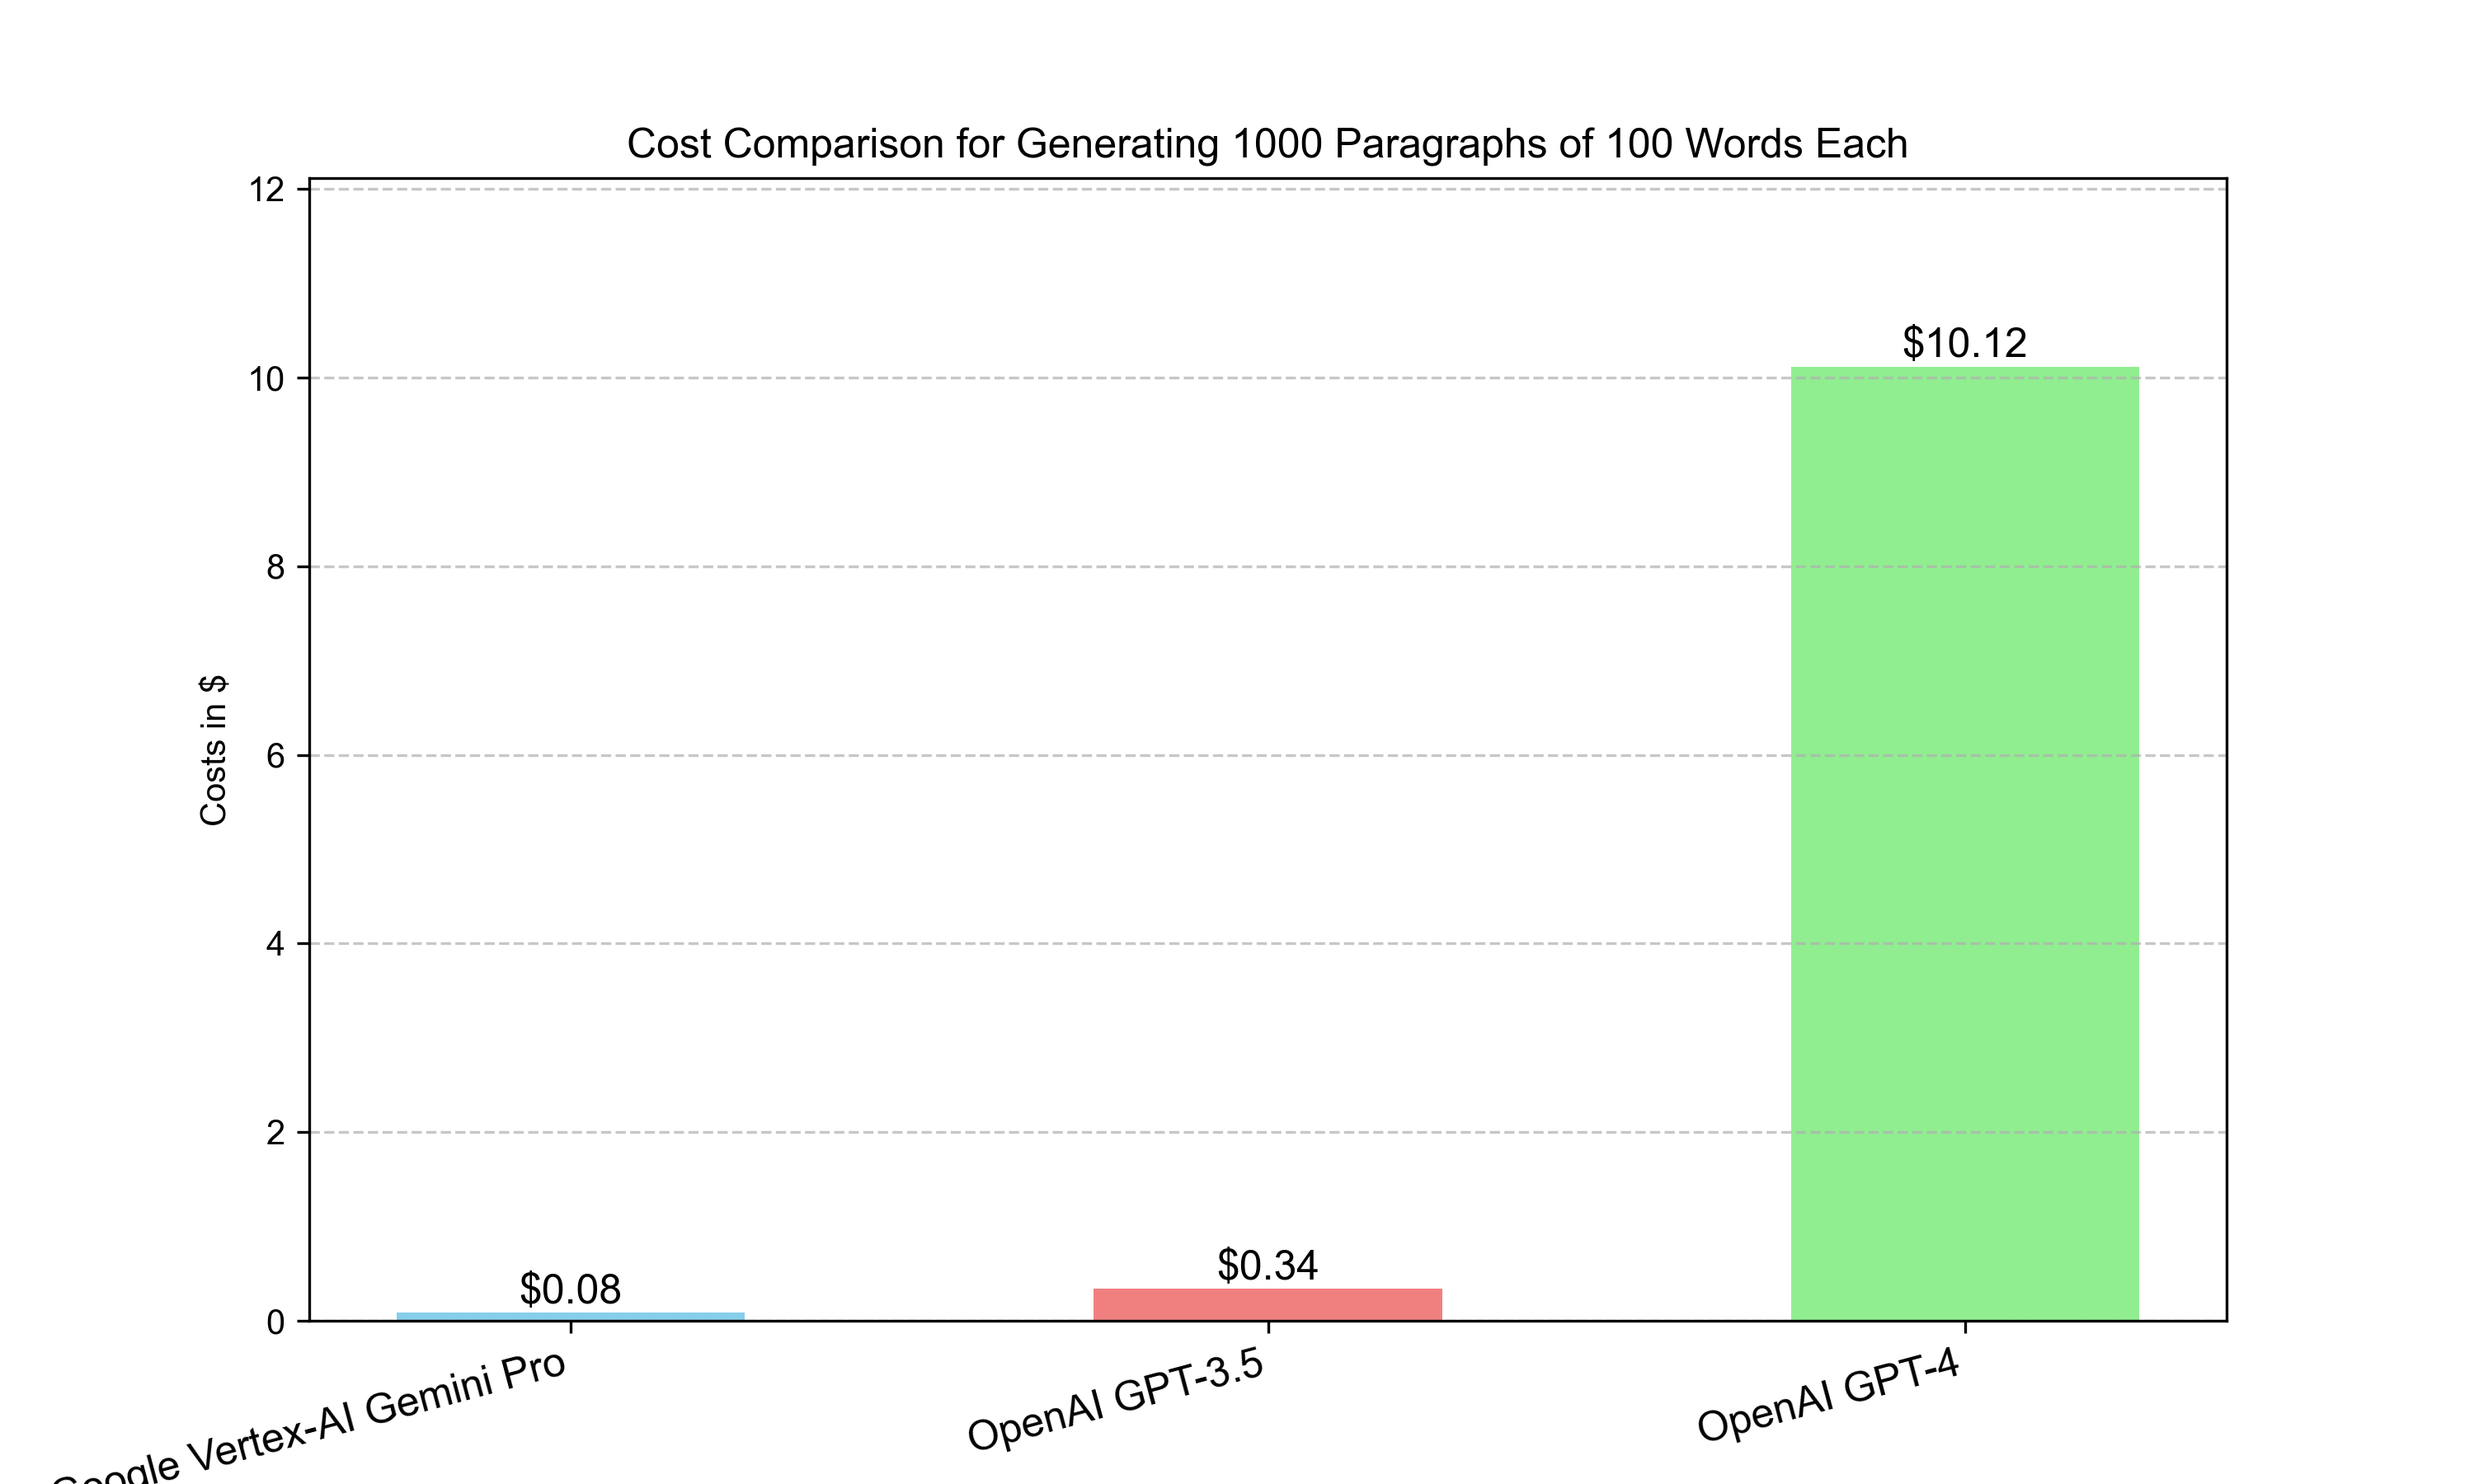
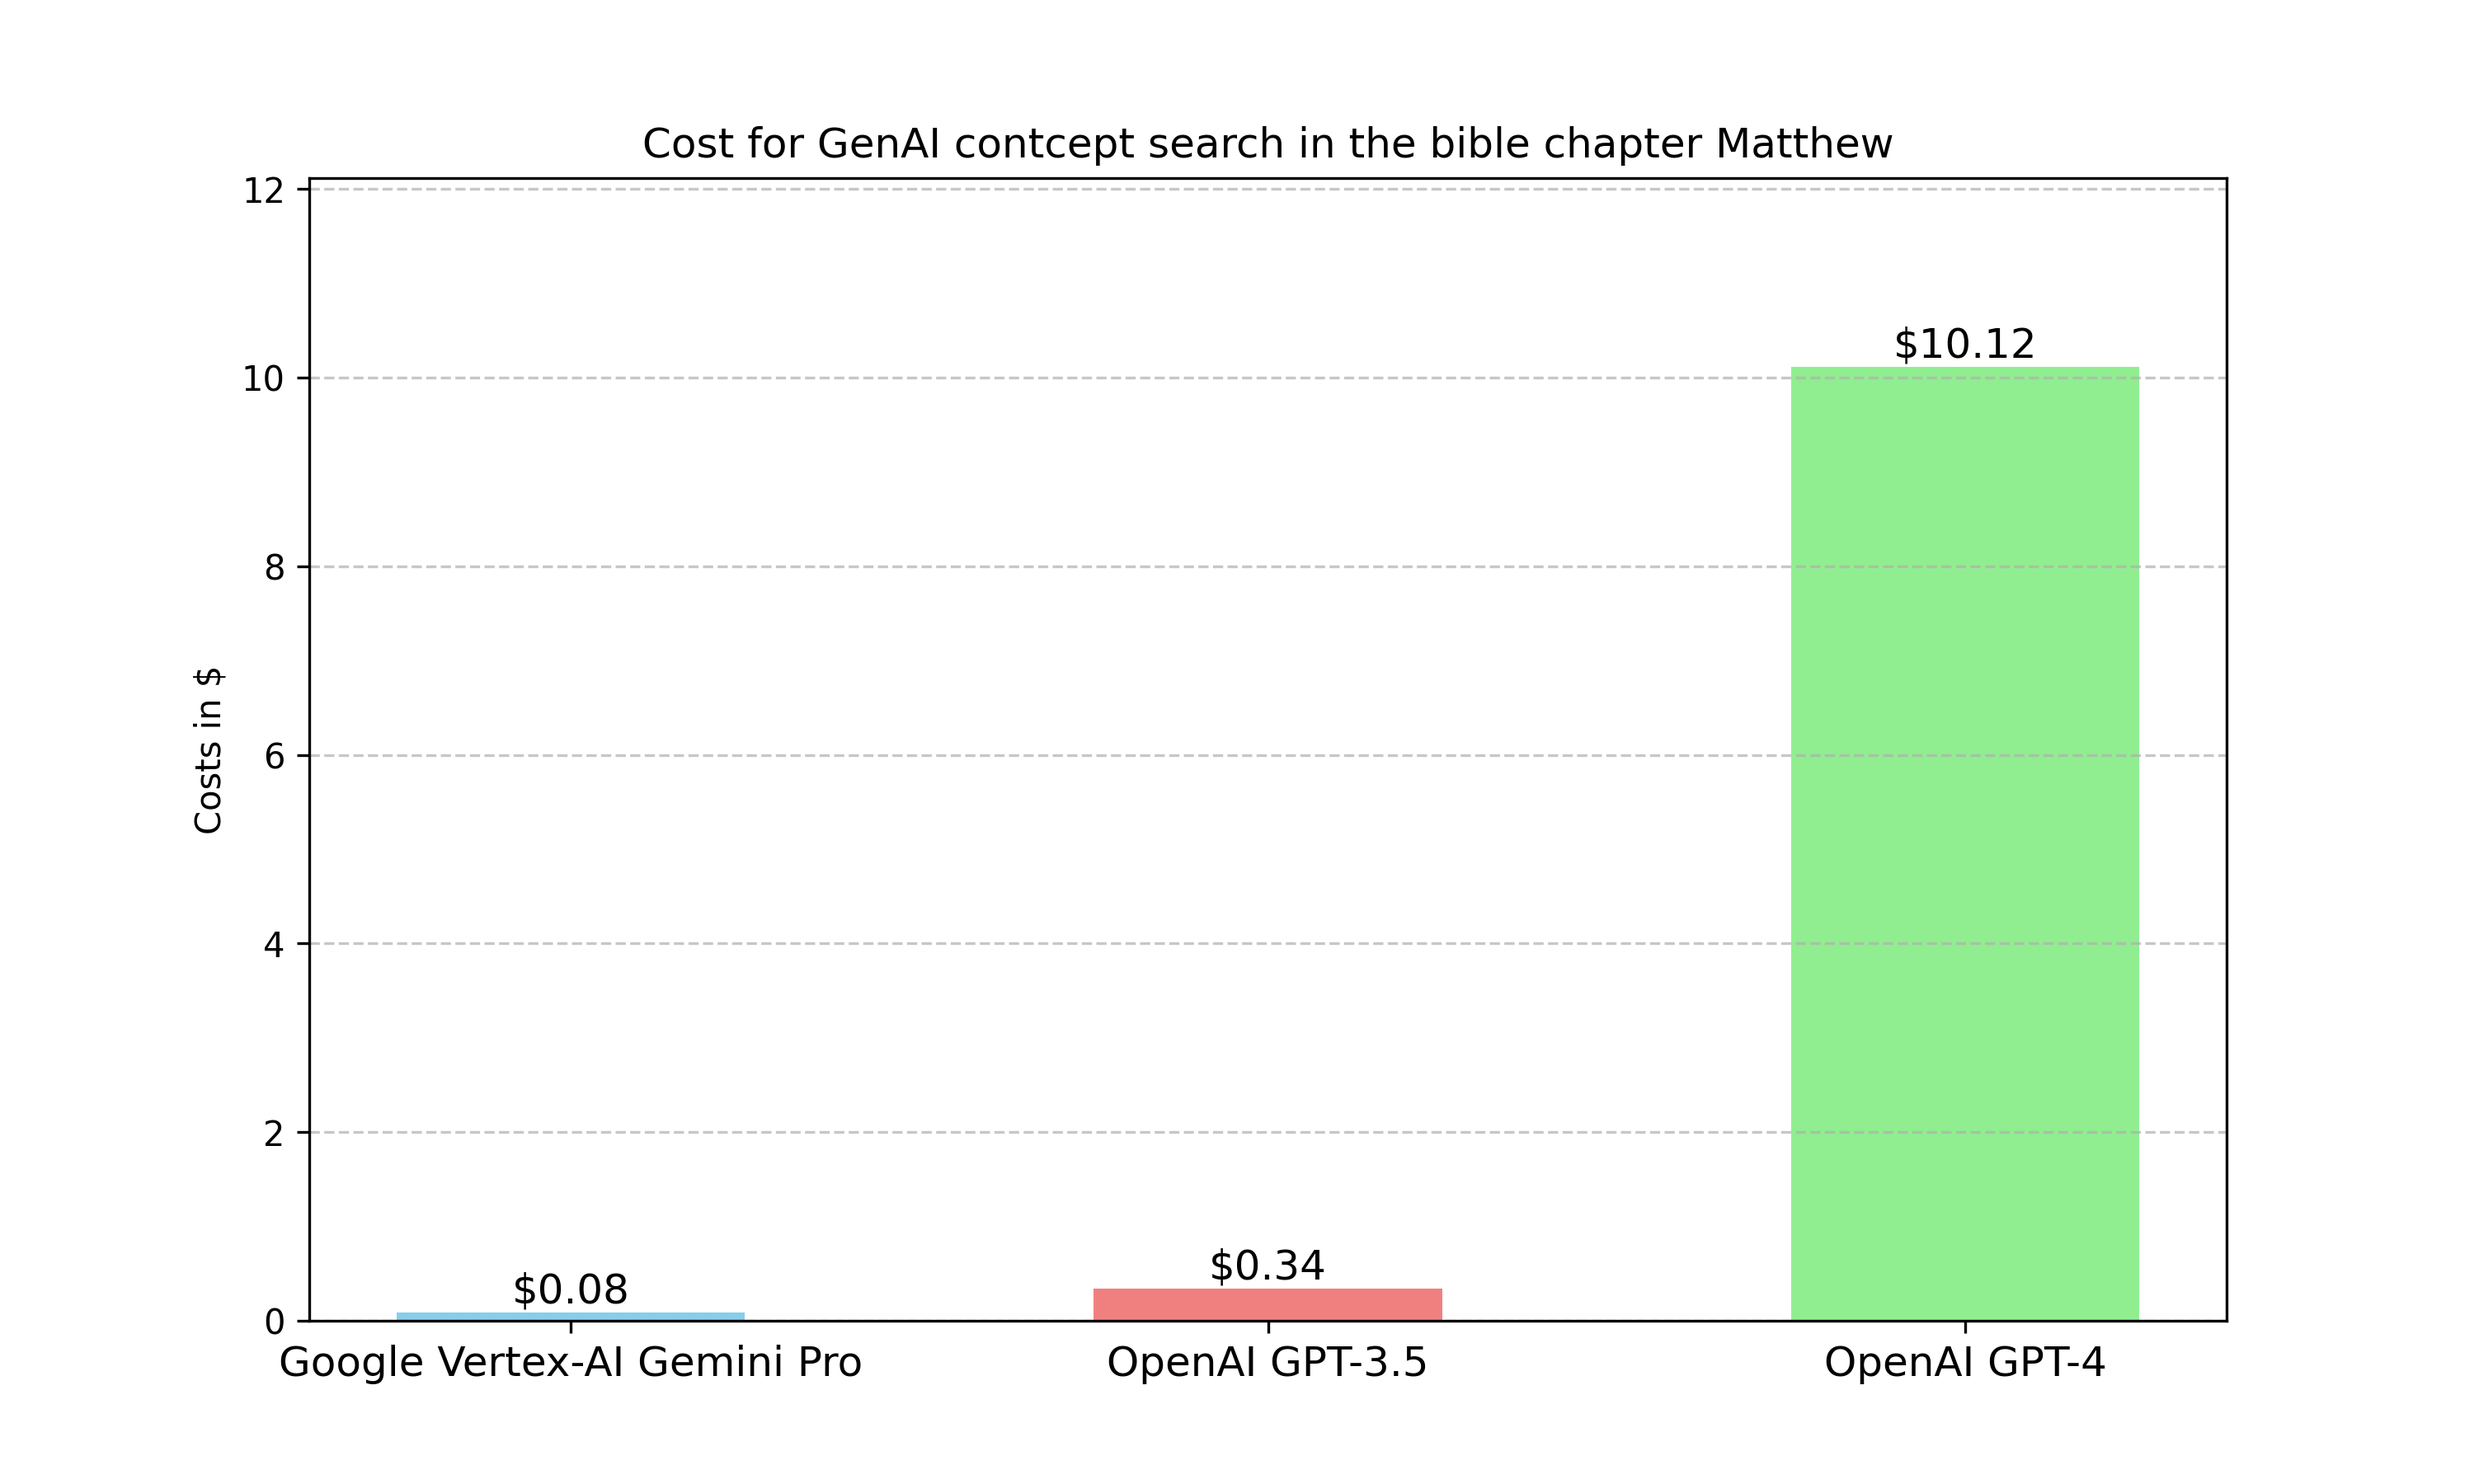
Improve Documentation

diff --git a/README.md b/README.md
@@ -1,0 +1,74 @@
+# Concept search powered by Large Language Models
+
+In this repository, I explore the Idea of a concept search with Large Language Models.  
+Instead of an exact word match or an intelligent full-text search, I search the text for representing a concept or Idea. In this experiment, I search in the Bible, if the concept of __seeking discomfort__ is represented there.  
+For this, I go through every verse and let a large Language Model rate how much this verse represents the concept of seeking discomfort.
+With this technique, I will also discover verses like Matthew 7:13-14
+> 13 “Enter through the narrow gate. For wide is the gate and broad is the road that leads to destruction, and many enter through it. 14 But small is the gate and narrow the road that leads to life, and only a few find it.
+
+I think this verse represents the Idea of seeking discomfort well, but there is no intelligent search available, that would be able to find this.
+
+## Prompt Engineering
+
+I use the following system prompt:
+> """You are an expert in the use of the english language. You will get single verse of the bible as an input and answer with a single number from 0 to 100, representing
+how much the bible verse says about the concept of seeking discomfort. It is not relevant if the verse suggest that seeking discomfort is good or bad, it is about if the bible verse says anything about seeking discomfort in general.  
+As guidance:  
+'Book 1:30: And the Lord said you shall seek discomfort in all aspects of your life' -> very high score  
+'Book 1:30: And the Lord said you should make sure, that you never venture out of your comfort zone' -> very high score  
+'Book 1:30: Marc felt uncomfortable' -> high score  
+'Book 1:30: Marc built himself a cosy bed, so that he can live comfortably' -> high score  
+'Book 1:30: Jesus made a difficult ride of 2 days to the next city' -> medium score  
+'Book 1:30: And so Jesus made water to wine' -> low score  
+For the next prompt you will answer with only one number (0 to 100). 0 represents the lowest correlation to the concept of seeking comfort or
+seeking discomfort and 100 represents the highest correletin to the concept of seeking comfort or seeking discomfort.
+Only answer with a single number. Do NOT answer with any explanation or context.
+"""
+
+I prime the model with "You are an expert in the use of the English language" to make sure, it focuses just on the interpretation of verse and not on its prior knowledge of the bible or Christianity.  
+I give it a few examples without giving out exact numbers, to hopefully improve the performance.
+
+## Authenticastion
+
+### Google Cloud
+
+Create a Service account
+<https://console.cloud.google.com/iam-admin/serviceaccounts?hl=en>  
+add the role for Vertex-AI-User  
+open service account  
+select KEYS  
+Create New Key
+Then the credentials.json file is downloaded  
+Save it somewhere  
+Then put the path to that file into the environment Variable
+
+```python
+os.environ['GOOGLE_APPLICATION_CREDENTIALS'] = 'C:/Git_Repos/try-out-vertex-ai-20aaf5516b7c.json' 
+# os.environ['GOOGLE_APPLICATION_CREDENTIALS'] = '/mnt/c/Git_Repos/try-out-vertex-ai-20aaf5516b7c.json'  
+```
+
+## OpenAI
+
+get the API key from <https://platform.openai.com/api-keys>
+and then add it to your environment.
+
+```python
+os.environ["OPENAI_API_KEY"] = "your-api-key-here"
+
+```
+
+## Lessons learned
+
+Their safety is annoying!
+
+Google safety setting
+<https://ai.google.dev/tutorials/python_quickstart#safety_settings>
+You can remove the blocking by setting safety settings:  
+<https://stackoverflow.com/questions/77723993/gemini-pro-api-blocking-replies>
+I get rate-limited on PaLM 2 and GeminiPro.
+maximum of 60 Requests per minute
+<https://cloud.google.com/vertex-ai/docs/generative-ai/quotas-genai?hl=en>  
+I could request to up the limit
+in the meantime, the limit was lifted
+
+on the Gemini Pro requests, I randomly get some annoying grpc error.
